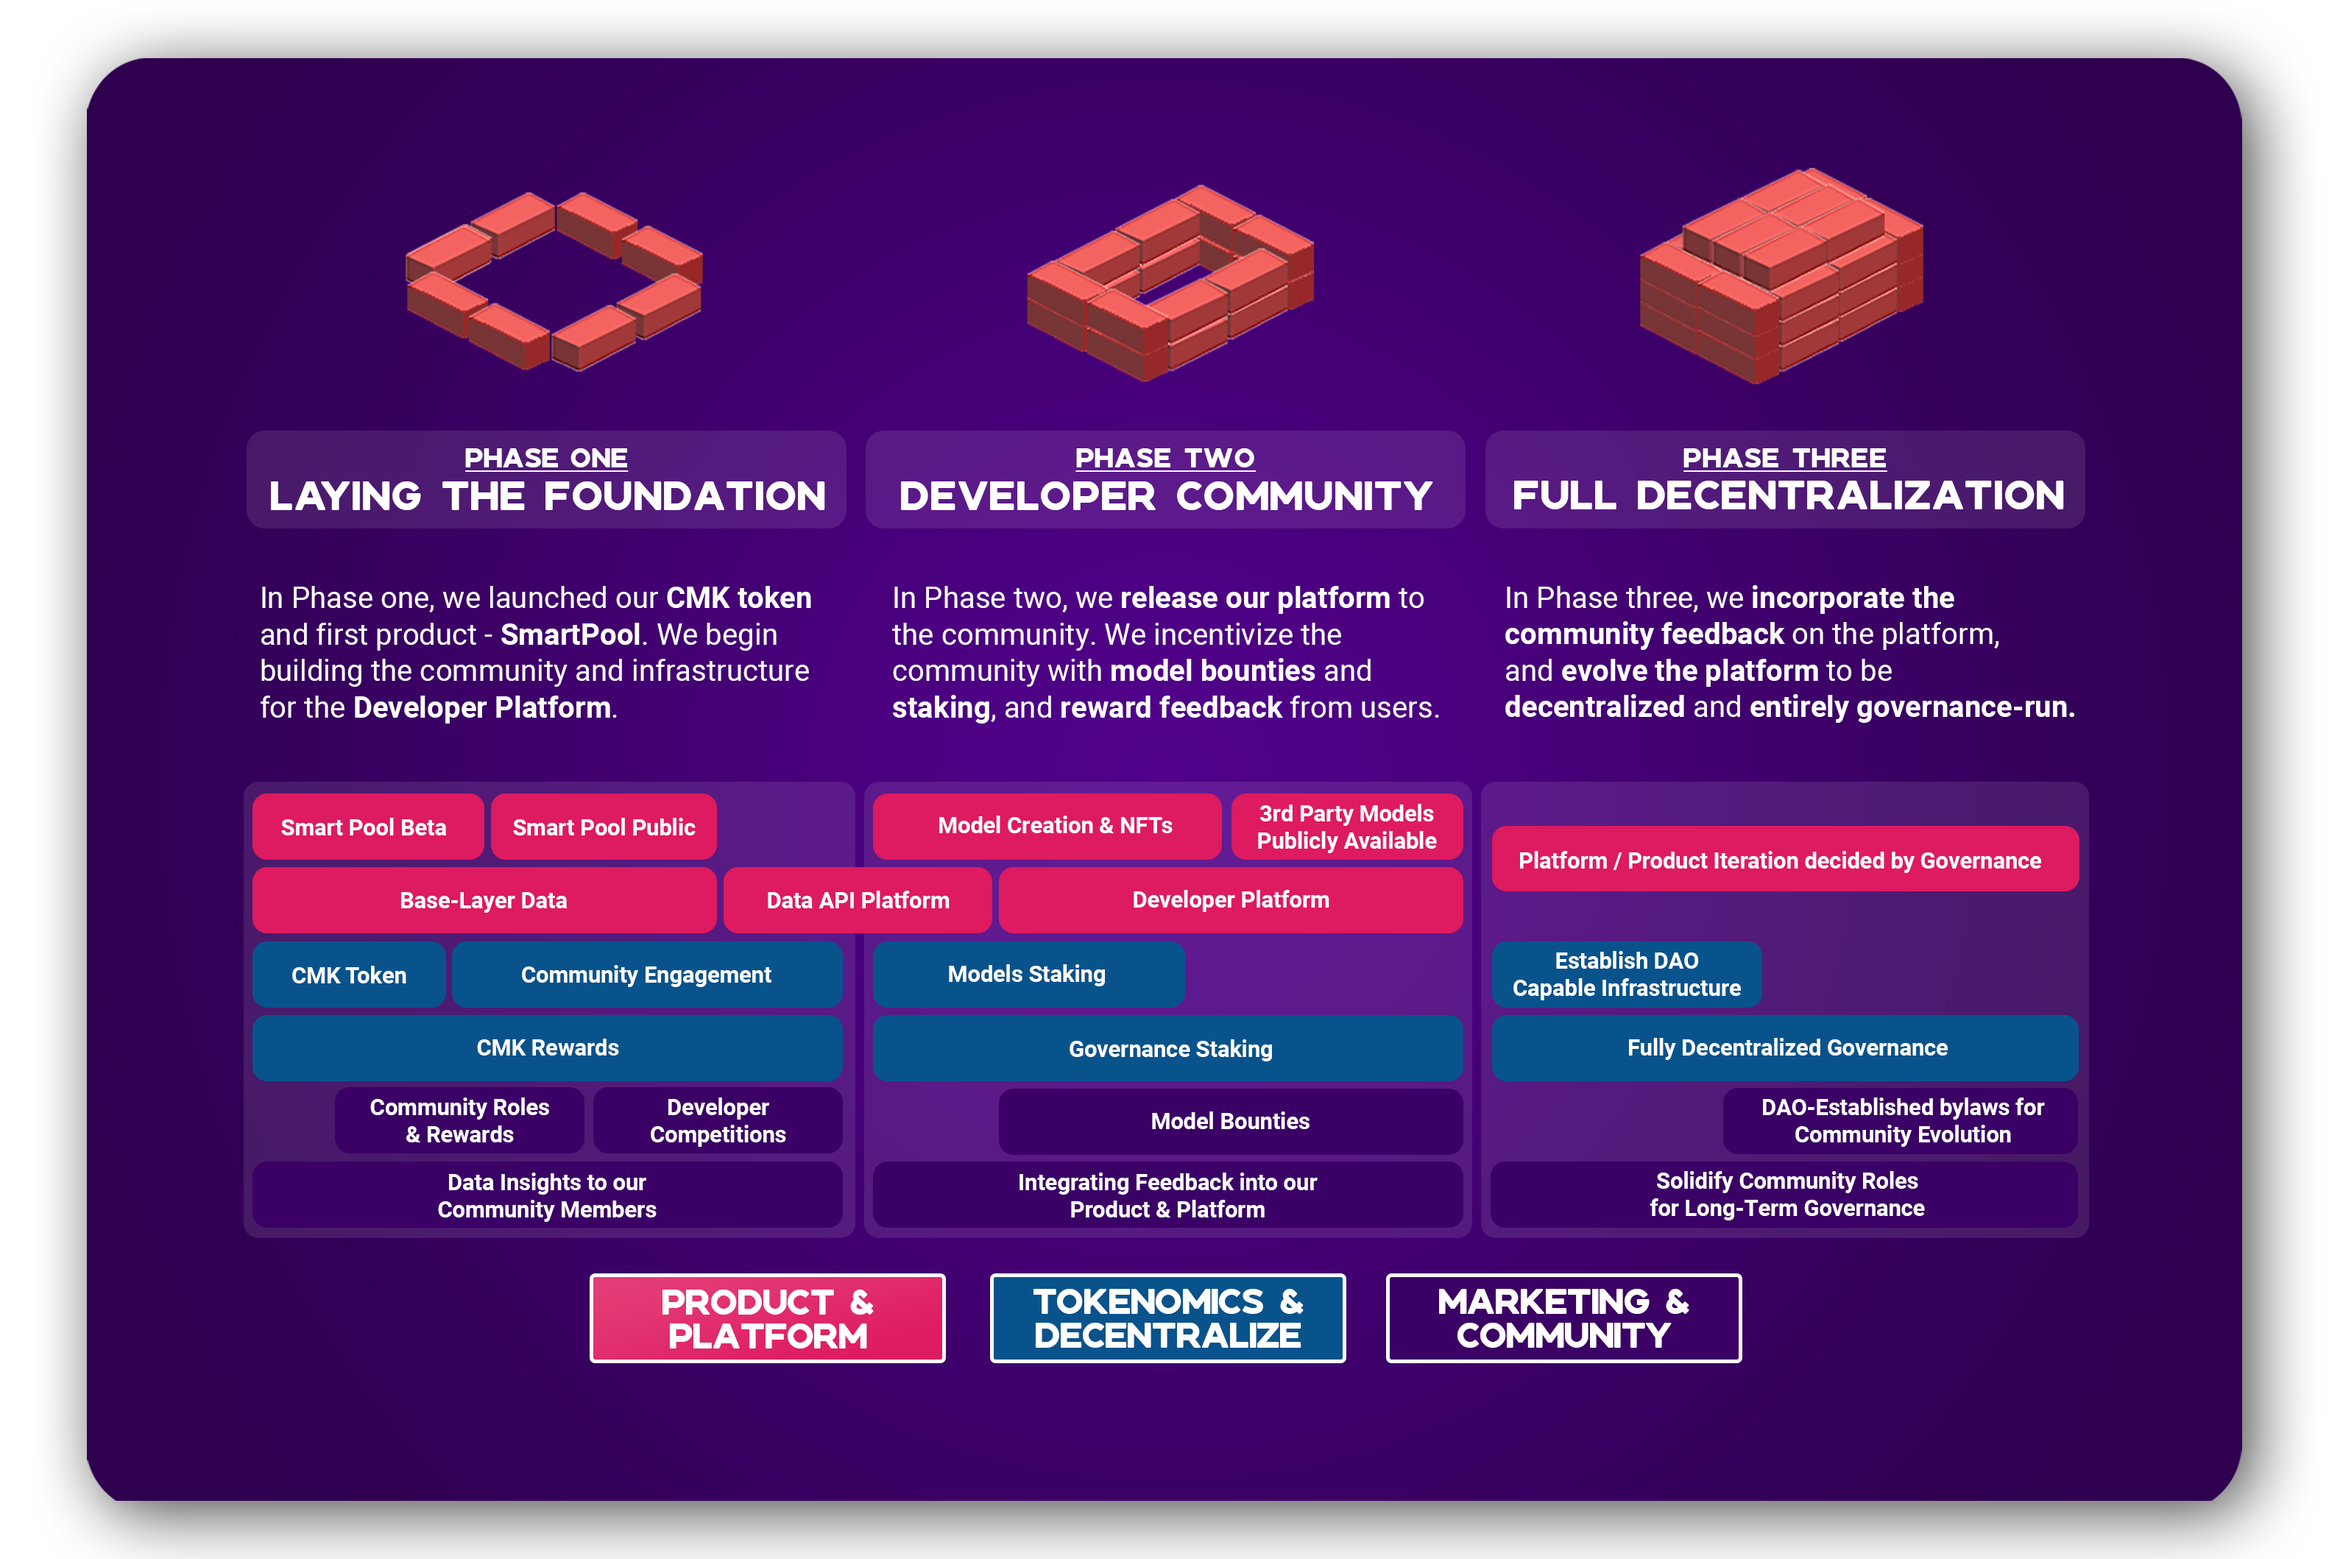
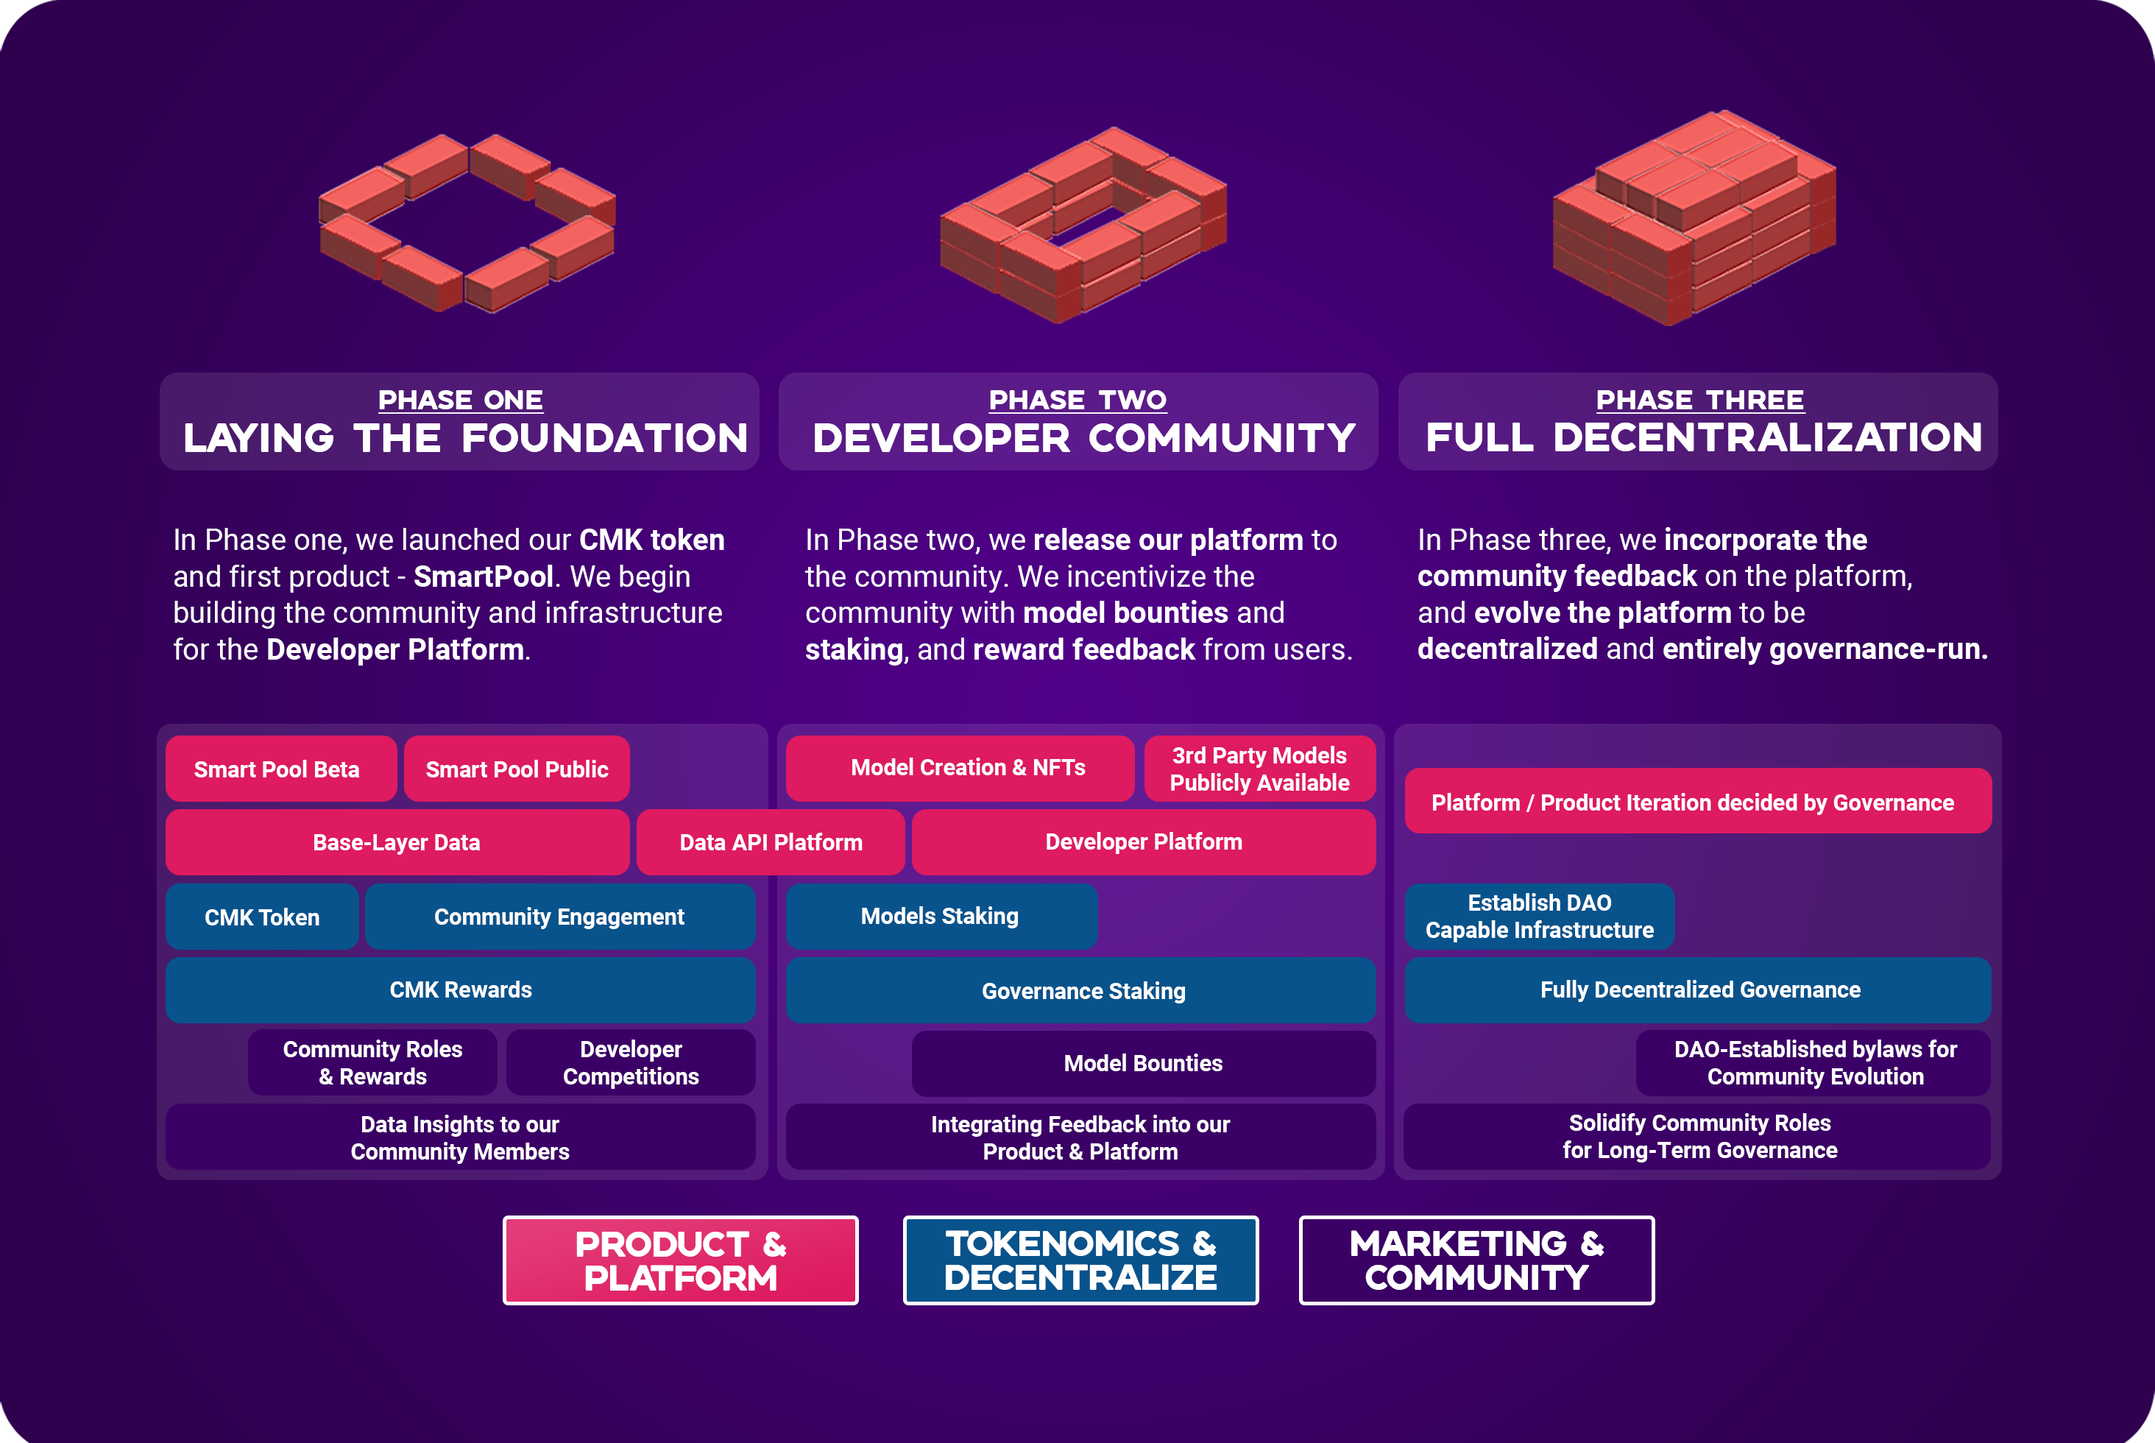
Two images on homepage replaced

diff --git a/credmark-website/components/pages/homepage.js b/credmark-website/components/pages/homepage.js
@@ -11,27 +11,9 @@ export default function Homepage() {
                                 CREDMARK
                             </h1>
                         </div>
-                        <div className="rounded-full border-2 max-w-xl block m-auto">
-                            <div className="hidden md:flex flex-wrap py-5 credmark justify-center text-2xl">
-                                <p className="text-right">HIGH INTEGRITY
-                                    <br></br>
-                                    DEFI DATA</p>
-                                <p className="px-2">+</p>
-                                <p>HIGH INTEGRITY
-                                    <br></br>
-                                    DEFI DATA</p>
-                            </div>
-                            <div className="md:hidden flex flex-wrap py-5 credmark justify-center text-xl">
-                                <p className="text-center">
-                                    HIGH INTEGRITY
-                                    <br></br>
-                                    DEFI DATA
-                                    <br></br>
-                                    +
-                                    <br></br>
-                                    HIGH INTEGRITY
-                                    <br></br>
-                                    DEFI DATA</p>
+                        <div className="max-w-xl block m-auto">
+                            <div className="flex flex-wrap py-5 credmark justify-center text-2xl">
+                            <img className="px-5" src="/assets/ModelPlatform.png" alt="Image saying 'High integrity data and risk modeling platform'" />
                             </div>
                         </div>
                         <div className="max-w-lg pb-12 md:mb-10 block m-auto">
@@ -58,7 +40,7 @@ export default function Homepage() {
                 <h3 className="credmark text-center text-2xl md:text-3xl pb-5">THE ROADMAP TO
                     <br></br>
                     <span className="text-2xl md:text-5xl">DECENTRALIZATION </span></h3>
-                <img src="/assets/roadmap.png" alt="Credmark 3 year roadmap" />
+                <img className="px-5" src="/assets/roadmap.png" alt="Credmark 3 year roadmap" />
             </div>
         </main>
 

diff --git a/credmark-website/styles/globals.css b/credmark-website/styles/globals.css
@@ -74,20 +74,20 @@ background: linear-gradient(130deg, rgba(247,181,0,0.04) 0%, rgba(182,32,224,0.0
 
 /* Let's get this party started */
 ::-webkit-scrollbar {
-  width: 10px;
+  width: 12px;
   padding-top: 15px;
 }
 
 /* Track */
 ::-webkit-scrollbar-track {
-  -webkit-border-radius: 10px;
-  border-radius: 10px;
+  -webkit-border-radius: 12px;
+  border-radius: 12px;
 }
 
 /* Handle */
 ::-webkit-scrollbar-thumb {
-  border-radius: 10px;
-  background-image: url("/assets/ScrollWheel.svg");
+  border-radius: 12px;
+  background-image: url("/assets/ScrollWheelSpace.svg");
   background-repeat: no-repeat;
   height: 5px; 
   margin-right: -20px;
